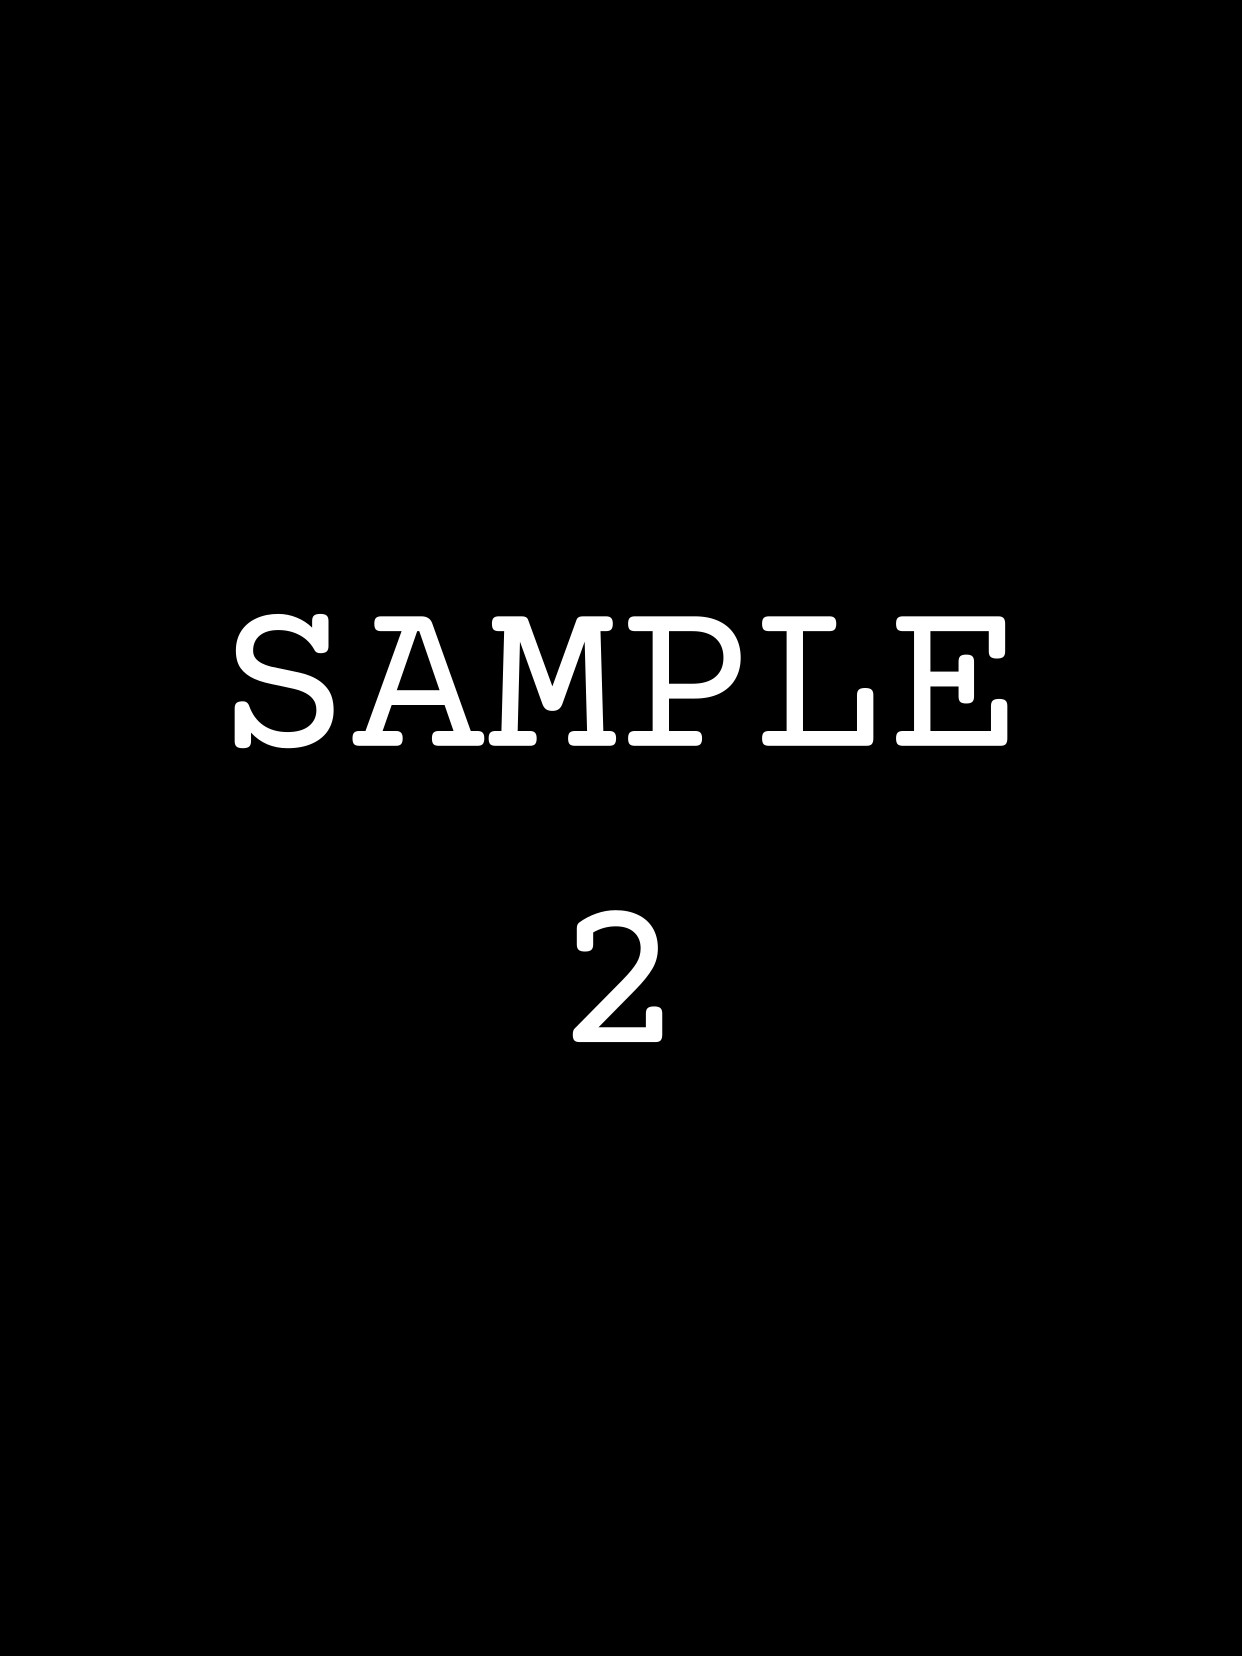
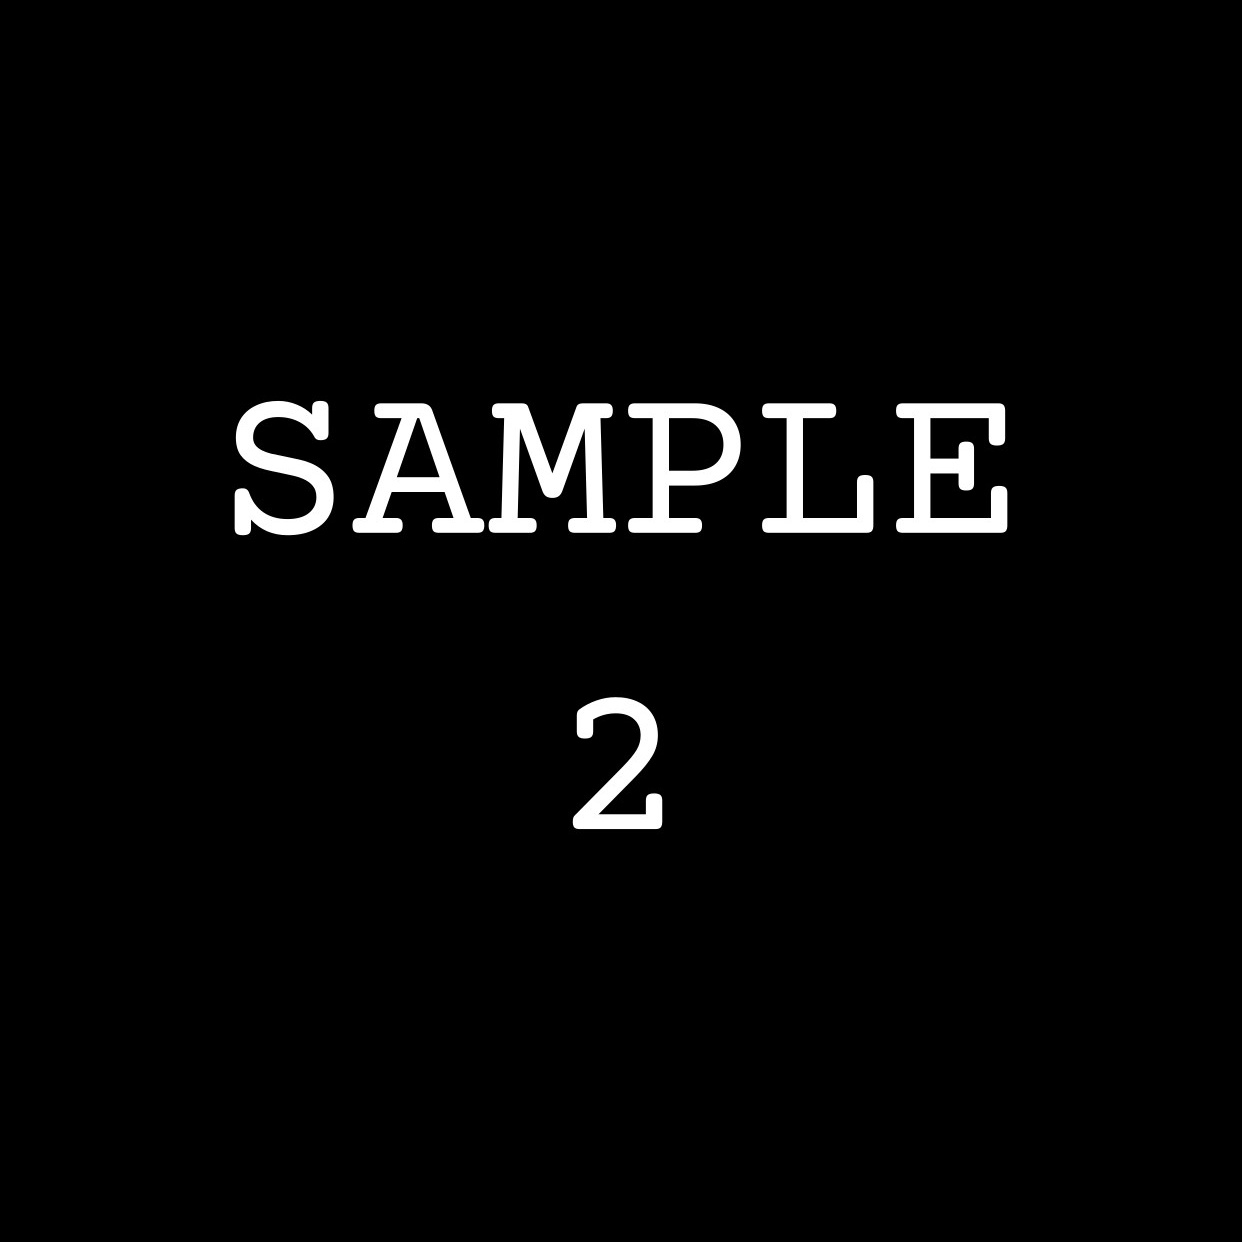
little fix

Changed region(s): [[0.1836, 0.306, 0.8261, 0.4589], [0.4589, 0.5507, 0.5507, 0.6731]]

diff --git a/index.html b/index.html
@@ -487,6 +487,7 @@
 
             .gallery-ticker {
                 display: flex;
+                align-items: center;
                 gap: 1.5rem;
                 width: max-content;
             }
@@ -503,11 +504,8 @@
             .gallery-ticker-item {
                 flex-shrink: 0;
                 width: 300px;
-                height: 225px;
                 border-radius: 12px;
                 overflow: hidden;
-                border: 1px solid var(--border);
-                background: var(--bg-secondary);
                 transition: transform 0.4s cubic-bezier(0.175, 0.885, 0.32, 1.275);
                 position: relative;
             }
@@ -519,8 +517,8 @@
 
             .gallery-ticker-item img {
                 width: 100%;
-                height: 100%;
-                object-fit: cover;
+                height: auto;
+                display: block;
             }
 
             .gallery-modal {
@@ -578,7 +576,7 @@
             .gallery-modal-slide img {
                 width: 100%;
                 height: 100%;
-                object-fit: cover;
+                object-fit: contain;
             }
 
             .gallery-modal-nav {
@@ -1264,6 +1262,15 @@
             const totalImages = galleryImages.length;
             let modalIndex = 0;
 
+            galleryImages.forEach((img, i) => {
+                const tickerItem = document.createElement("div");
+                tickerItem.className = "gallery-ticker-item";
+                tickerItem.dataset.index = i;
+                tickerItem.innerHTML = `<img src="images/${img}" alt="J3FF Print Sample ${i + 1}" />`;
+                ticker.appendChild(tickerItem);
+            });
+
+            // Duplicate for seamless infinite loop
             galleryImages.forEach((img, i) => {
                 const tickerItem = document.createElement("div");
                 tickerItem.className = "gallery-ticker-item";